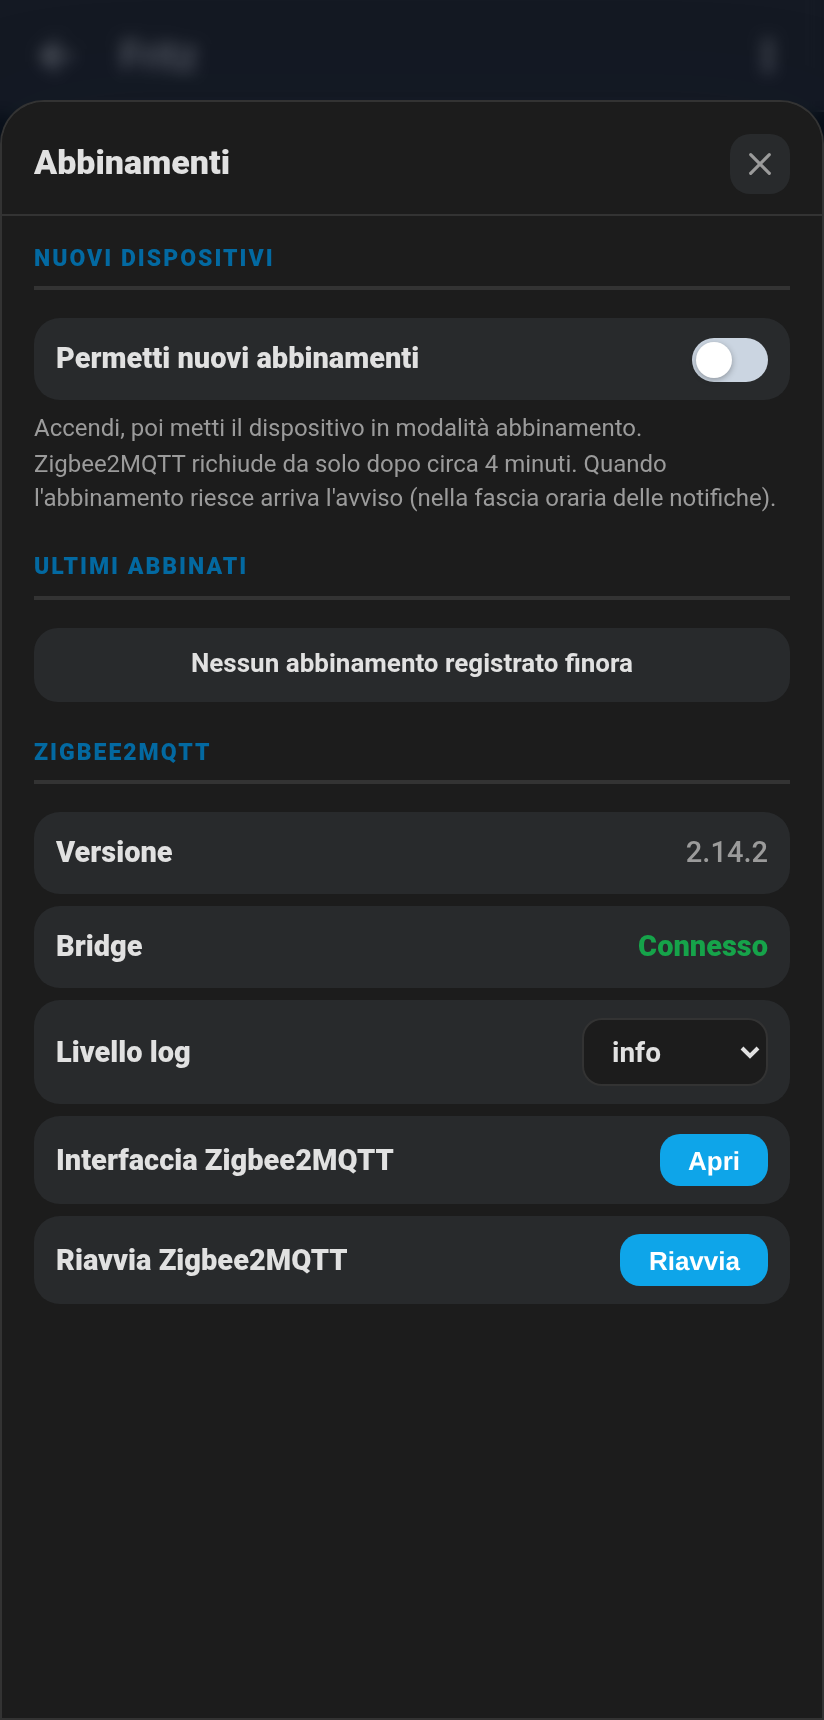
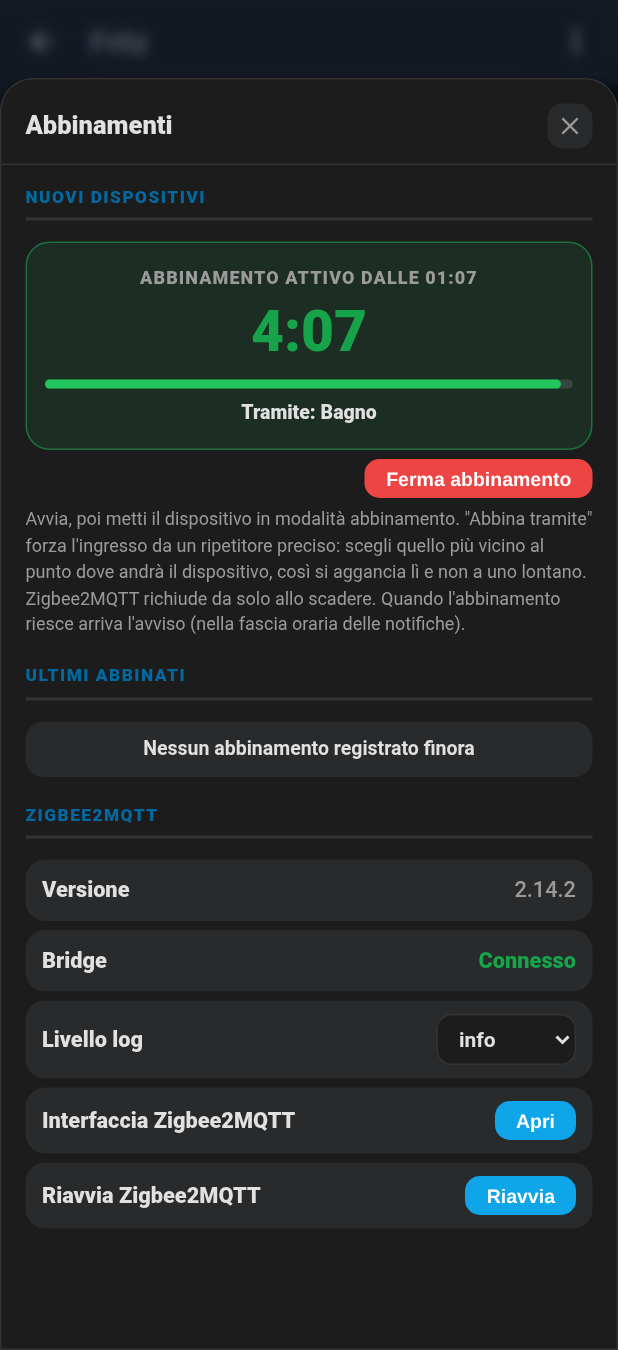
1.8.2: abbinamento con conto alla rovescia e ripetitore scelto, elenco alfabetico

diff --git a/smart-home-cards.js b/smart-home-cards.js
@@ -7705,6 +7705,14 @@ const ZB_STYLE = `
 .shc-zb-stepper{display:flex;align-items:center;gap:8px}
 .shc-zb-stepper span{min-width:58px;text-align:center;font-size:14px;font-weight:850;color:var(--shc-text)}
 .shc-zb-note{font-size:12px;line-height:1.45;color:var(--shc-dim);margin:0}
+.shc-zb-pair{display:flex;flex-direction:column;align-items:center;gap:6px;padding:14px 12px;border-radius:16px;background:rgba(34,197,94,.1);border:1px solid rgba(34,197,94,.45)}
+.shc-zb-pair small{font-size:12px;font-weight:800;color:var(--shc-dim);text-transform:uppercase;letter-spacing:.06em}
+.shc-zb-cd{font-size:38px;font-weight:900;color:#16a34a;font-variant-numeric:tabular-nums;line-height:1}
+.shc-zb-pair .shc-ap-bar{width:100%;height:6px}
+.shc-zb-pair .shc-ap-bar i{background:#22c55e;transition:width 1s linear}
+.shc-zb-pair-via{font-size:13px;font-weight:750;color:var(--shc-text);text-align:center}
+.shc-zb-pair-btns{display:flex;gap:8px;justify-content:flex-end;flex-wrap:wrap}
+.shc-zb-stop{background:#ef4444 !important}
 .shc-zb-history{display:flex;flex-direction:column;gap:5px}
 .shc-zb-history div{padding:8px 11px;border-radius:12px;background:var(--shc-soft);font-size:13px;font-weight:650;color:var(--shc-text)}
 .shc-zb-history small{display:block;font-size:11px;font-weight:800;color:var(--shc-dim)}
@@ -7767,6 +7775,8 @@ class ShcZigbeeCard extends HTMLElement {
       version_entity: "sensor.zigbee2mqtt_bridge_version",
       log_level_entity: "select.zigbee2mqtt_bridge_log_level",
       history_entity: "input_text.zigbee_ultimi_abbinati",
+      pairing_end_entity: "sensor.zigbee_abbinamento_fine",
+      base_topic: "zigbee2mqtt",
       excluded_entity: "input_text.zigbee_esclusi",
       image_path: "/local/zigbee_img/",
       ...config,
@@ -7851,8 +7861,7 @@ class ShcZigbeeCard extends HTMLElement {
     const excluded = Array.isArray(a.esclusi) ? a.esclusi : [];
     const soglia = Number(a.soglia_batteria) || 15;
     const stato = (d) => (excluded.includes(d.n) ? "escl" : d.on ? "on" : "off");
-    const ordine = { off: 0, on: 1, escl: 2 };
-    const devices = [...list].sort((x, y) => ordine[stato(x)] - ordine[stato(y)] || String(x.n).localeCompare(String(y.n)));
+    const devices = [...list].sort((x, y) => String(x.n).localeCompare(String(y.n), "it", { sensitivity: "base", numeric: true }));
     const withLqi = devices.filter((d) => d.on && d.q >= 0);
     const minDev = withLqi.length ? withLqi.reduce((m, d) => (d.q < m.q ? d : m), withLqi[0]) : null;
     return {
@@ -7870,6 +7879,23 @@ class ShcZigbeeCard extends HTMLElement {
       battery: devices.filter((d) => d.b !== -2),
       low: devices.filter((d) => d.b >= 0 && d.b < soglia && stato(d) !== "escl"),
     };
+  }
+
+  // Fine dell'abbinamento in corso (ms), 0 se chiuso. Dal sensore del package,
+  // altrimenti accensione dell'interruttore + 254 s (durata standard di Zigbee2MQTT).
+  _pairEnd() {
+    const cfg = this._config;
+    const pj = this._hass?.states[cfg.permit_join_entity];
+    if (pj && pj.state !== "on") return 0;
+    const t = Date.parse(this._hass?.states[cfg.pairing_end_entity]?.state || "");
+    if (t) return t;
+    if (pj?.state === "on") return Date.parse(pj.last_changed) + 254000;
+    return 0;
+  }
+
+  _cdText(ms) {
+    const s = Math.max(0, Math.round(ms / 1000));
+    return `${Math.floor(s / 60)}:${String(s % 60).padStart(2, "0")}`;
   }
 
   _img(model) {
@@ -7906,7 +7932,24 @@ class ShcZigbeeCard extends HTMLElement {
     const badge = this._root.querySelector(".shc-ap-badge");
     badge.classList.remove("run", "standby", "off", "unavailable");
     badge.classList.add(mode === "running" && !d.offline.length ? "run" : "unavailable");
-    this._root.querySelector(".shc-ap-badge-label").textContent = !d.st
+    const pairEnd = this._pairEnd();
+    if (pairEnd > Date.now()) {
+      if (!this._badgeTimer) {
+        this._badgeTimer = setInterval(() => {
+          const left = this._pairEnd() - Date.now();
+          if (left <= 0 || !this.isConnected) {
+            clearInterval(this._badgeTimer);
+            this._badgeTimer = null;
+            if (this._hass) this.hass = this._hass;
+            return;
+          }
+          this._root.querySelector(".shc-ap-badge-label").textContent = `ABBINAMENTO ${this._cdText(left)}`;
+        }, 1000);
+      }
+      badge.classList.remove("unavailable");
+      badge.classList.add("run");
+      this._root.querySelector(".shc-ap-badge-label").textContent = `ABBINAMENTO ${this._cdText(pairEnd - Date.now())}`;
+    } else this._root.querySelector(".shc-ap-badge-label").textContent = !d.st
       ? "N/D"
       : bridgeDown
         ? "BRIDGE OFFLINE"
@@ -7949,7 +7992,7 @@ class ShcZigbeeCard extends HTMLElement {
 
     // popup aperto: si ridisegna solo quando cambia una delle entita' della card
     const n = cfg.notify || {};
-    const key = [cfg.entity, cfg.permit_join_entity, cfg.history_entity, cfg.bridge_entity, cfg.log_level_entity, ...Object.values(n)]
+    const key = [cfg.entity, cfg.permit_join_entity, cfg.pairing_end_entity, cfg.history_entity, cfg.bridge_entity, cfg.log_level_entity, ...Object.values(n)]
       .map((e) => (e && hass.states[e] ? hass.states[e].last_updated : ""))
       .join("|");
     if (key !== this._liveKey) {
@@ -8081,7 +8124,29 @@ class ShcZigbeeCard extends HTMLElement {
     const cfg = this._config;
     const pj = hass.states[cfg.permit_join_entity];
     const pjOn = pj?.state === "on";
+    const end = this._pairEnd();
     const sinceTxt = pjOn && pj.last_changed ? new Date(pj.last_changed).toLocaleTimeString("it-IT", { hour: "2-digit", minute: "2-digit" }) : "";
+    const total = Math.max(1, end - Date.parse(pj?.last_changed || "") || 254000);
+    // ripetitori (dispositivi a rete online) attraverso cui forzare l'abbinamento
+    const routers = this._data().devices.filter((x) => x.b === -2 && x.on);
+    if (this._pairVia && !routers.some((x) => x.n === this._pairVia) && this._pairVia !== "Coordinator") this._pairVia = "";
+    const viaOpts = [
+      ["", "Tutta la rete"],
+      ["Coordinator", "Solo coordinatore"],
+      ...routers.map((x) => [x.n, x.n]),
+    ]
+      .map(([v, l]) => `<option value="${esc(v)}"${v === (this._pairVia || "") ? " selected" : ""}>${esc(l)}</option>`)
+      .join("");
+    const pairBox = pjOn
+      ? `<div class="shc-zb-pair">
+          <small>Abbinamento attivo dalle ${esc(sinceTxt)}</small>
+          <span class="shc-zb-cd">${end ? this._cdText(end - Date.now()) : "--:--"}</span>
+          <div class="shc-ap-bar"><i class="shc-zb-cd-bar" style="width:${end ? Math.max(0, Math.min(100, ((end - Date.now()) / total) * 100)) : 0}%"></i></div>
+          ${this._pairStartedVia === undefined ? "" : `<span class="shc-zb-pair-via">Tramite: <b>${esc(this._pairStartedVia === "Coordinator" ? "solo coordinatore" : this._pairStartedVia || "tutta la rete")}</b></span>`}
+        </div>
+        <div class="shc-zb-pair-btns"><button type="button" class="shc-ap-action-btn shc-zb-stop" data-pair="stop">Ferma abbinamento</button></div>`
+      : `${this._row("Abbina tramite", `<select class="shc-ap-select" data-via="1">${viaOpts}</select>`)}
+        <div class="shc-zb-pair-btns"><button type="button" class="shc-ap-action-btn" data-pair="start">Avvia abbinamento (4 min)</button></div>`;
     const hist = String(hass.states[cfg.history_entity]?.state || "");
     const histItems = ["", "unknown", "unavailable"].includes(hist) ? [] : hist.split(" | ");
     const ver = hass.states[cfg.version_entity]?.state;
@@ -8092,8 +8157,8 @@ class ShcZigbeeCard extends HTMLElement {
       .join("");
     const html = `
       <div class="shc-ap-sec"><div class="shc-ap-sec-cap">Nuovi dispositivi</div>
-        ${this._row(pjOn ? `Abbinamento attivo dalle ${sinceTxt}` : "Permetti nuovi abbinamenti", this._switchHtml(cfg.permit_join_entity))}
-        <p class="shc-zb-note">Accendi, poi metti il dispositivo in modalità abbinamento. Zigbee2MQTT richiude da solo dopo circa 4 minuti. Quando l'abbinamento riesce arriva l'avviso (nella fascia oraria delle notifiche).</p>
+        ${pairBox}
+        <p class="shc-zb-note">Avvia, poi metti il dispositivo in modalità abbinamento. "Abbina tramite" forza l'ingresso da un ripetitore preciso: scegli quello più vicino al punto dove andrà il dispositivo, così si aggancia lì e non a uno lontano. Zigbee2MQTT richiude da solo allo scadere. Quando l'abbinamento riesce arriva l'avviso (nella fascia oraria delle notifiche).</p>
       </div>
       <div class="shc-ap-sec"><div class="shc-ap-sec-cap">Ultimi abbinati</div>
         <div class="shc-zb-history">${
@@ -8111,6 +8176,33 @@ class ShcZigbeeCard extends HTMLElement {
       </div>`;
     const overlay = this._openDialog("Abbinamenti", html, () => this._openPairing());
     this._bindControls(overlay, () => this._openPairing());
+    clearInterval(this._cdTimer);
+    if (pjOn && end) {
+      this._cdTimer = setInterval(() => {
+        const left = end - Date.now();
+        const cd = overlay.querySelector(".shc-zb-cd");
+        if (overlay.hidden || !cd) {
+          clearInterval(this._cdTimer);
+          return;
+        }
+        cd.textContent = this._cdText(left);
+        const bar = overlay.querySelector(".shc-zb-cd-bar");
+        if (bar) bar.style.width = `${Math.max(0, Math.min(100, (left / total) * 100))}%`;
+        if (left <= 0) clearInterval(this._cdTimer);
+      }, 1000);
+    }
+    overlay.querySelector("[data-via]")?.addEventListener("change", (e) => {
+      this._pairVia = e.target.value;
+    });
+    overlay.querySelector("[data-pair]")?.addEventListener("click", (e) => {
+      const start = e.target.dataset.pair === "start";
+      const payload = start ? { time: 254 } : { time: 0 };
+      if (start && this._pairVia) payload.device = this._pairVia;
+      this._pairStartedVia = start ? this._pairVia || "" : undefined;
+      this._call("mqtt", "publish", { topic: `${cfg.base_topic}/bridge/request/permit_join`, payload: JSON.stringify(payload) });
+      e.target.disabled = true;
+      e.target.textContent = start ? "Avvio..." : "Chiusura...";
+    });
     overlay.querySelector("[data-log]")?.addEventListener("change", (e) => {
       this._call("select", "select_option", { entity_id: cfg.log_level_entity, option: e.target.value });
     });
@@ -8335,6 +8427,8 @@ class ShcZigbeeCardEditor extends ShcSimpleCardEditorBase {
       ]},
       { title: "Zigbee2MQTT", fields: [
         { key: "permit_join_entity", label: "Permetti abbinamento (permit join)", domain: ["switch"] },
+        { key: "pairing_end_entity", label: "Fine abbinamento (conto alla rovescia)", domain: ["sensor"] },
+        { key: "base_topic", label: "Topic base MQTT di Zigbee2MQTT", kind: "text", placeholder: "zigbee2mqtt" },
         { key: "restart_entity", label: "Pulsante riavvio", domain: ["button"] },
         { key: "version_entity", label: "Versione", domain: ["sensor"] },
         { key: "log_level_entity", label: "Livello log", domain: ["select"] },

diff --git a/docs/zigbee.md b/docs/zigbee.md
@@ -24,7 +24,7 @@ Il package [`packages/centro_controllo_zigbee.yaml`](../packages/centro_controll
 
 1. Copialo in `/config/packages/` (servono i [Packages](https://www.home-assistant.io/docs/configuration/packages/) attivi).
 2. Cerca `mobile_app_il_tuo_telefono` (3 punti) e mettici il tuo `notify.mobile_app_xxx`.
-3. Se il tuo Zigbee2MQTT usa un `base_topic` diverso da `zigbee2mqtt`, cambia i due topic `zigbee2mqtt/...` nel file.
+3. Se il tuo Zigbee2MQTT usa un `base_topic` diverso da `zigbee2mqtt`, cambia i topic `zigbee2mqtt/...` nel file e metti `base_topic` nella card.
 4. Riavvia Home Assistant.
 5. Imposta una volta gli helper, dalla card stessa (🔔 Notifiche): soglia offline (es. 30 min), soglia batteria (es. 15%), fascia oraria (es. 9:00 – 23:00), avvisi accesi. Gli helper non hanno `initial:` apposta, così i valori scelti restano dopo ogni riavvio.
 6. (Facoltativo) Foto dei dispositivi: la card cerca prima `/local/zigbee_img/<modello>.png`, poi la scarica da sola dal sito di Zigbee2MQTT. Metti in `/config/www/zigbee_img/` solo le foto che vuoi diverse da quelle ufficiali.
@@ -56,11 +56,17 @@ frontend_url: /45df7312_zigbee2mqtt
 
 ### ⚙ Abbinamenti
 
-Interruttore **Permetti nuovi abbinamenti** (`permit join`: Zigbee2MQTT lo richiude da solo dopo circa 4 minuti), elenco degli **ultimi abbinati** con data e ora, versione di Zigbee2MQTT, stato del bridge, livello di log, pulsanti **Apri** (interfaccia di Zigbee2MQTT) e **Riavvia** (con conferma).
+**Avvia abbinamento (4 min)** apre la rete ai nuovi dispositivi. Durante l'abbinamento compare un **conto alla rovescia** grande con la barra del tempo che resta, e anche il badge della card mostra "ABBINAMENTO 3:42". **Ferma abbinamento** chiude subito.
+
+**Abbina tramite** forza l'ingresso da un punto preciso della rete: tutta la rete, solo il coordinatore (la chiavetta) oppure un ripetitore scelto dall'elenco (i dispositivi alimentati a rete e online). Scegli il ripetitore più vicino al punto dove andrà il dispositivo: si aggancia lì e non a uno lontano.
+
+Sotto: elenco degli **ultimi abbinati** con data e ora, versione di Zigbee2MQTT, stato del bridge, livello di log, pulsanti **Apri** (interfaccia di Zigbee2MQTT) e **Riavvia** (con conferma).
+
+Il conto alla rovescia legge `sensor.zigbee_abbinamento_fine` del package (Zigbee2MQTT pubblica l'ora di chiusura in `bridge/info`). Senza il package la card stima 4 minuti dall'accensione dell'interruttore `permit join`.
 
 ### 📊 Dispositivi
 
-Tutti i dispositivi con foto, stato, tacche e valore del segnale, modello e batteria (o "a rete"). Gli offline stanno in cima, con bordo rosso e da quanto tempo sono offline. Filtri **Tutti / Online / Offline / A rete / A batteria** e ricerca per nome o modello. Si apre anche toccando il simbolo Zigbee.
+Tutti i dispositivi con foto, stato, tacche e valore del segnale, modello e batteria (o "a rete"). In ordine alfabetico; gli offline hanno il bordo rosso e da quanto tempo sono offline (filtro **Offline** per vederli da soli). Filtri **Tutti / Online / Offline / A rete / A batteria** e ricerca per nome o modello. Si apre anche toccando il simbolo Zigbee.
 
 Toccando un dispositivo si apre la sua **scheda**: produttore e modello, stato, segnale, batteria, il pulsante per aprire la pagina del dispositivo in Home Assistant e l'interruttore **Escludi da conteggio e avvisi**. Serve per un dispositivo che spegni di proposito (es. una presa usata solo d'inverno): resta in elenco, ma non fa diventare rossa la card e non manda avvisi.
 
@@ -96,6 +102,8 @@ Se più di metà della rete va offline insieme arriva un solo avviso, "Rete Zigb
 | `restart_entity` | No | `button.zigbee2mqtt_bridge_restart` | Pulsante di riavvio |
 | `version_entity` | No | `sensor.zigbee2mqtt_bridge_version` | Versione di Zigbee2MQTT |
 | `log_level_entity` | No | `select.zigbee2mqtt_bridge_log_level` | Livello di log |
+| `pairing_end_entity` | No | `sensor.zigbee_abbinamento_fine` | Fine dell'abbinamento in corso, per il conto alla rovescia |
+| `base_topic` | No | `zigbee2mqtt` | Topic base MQTT di Zigbee2MQTT (avvio/stop abbinamento) |
 | `frontend_url` | No | — | Percorso o indirizzo dell'interfaccia Zigbee2MQTT (senza, il pulsante Apri non compare) |
 | `image_path` | No | `/local/zigbee_img/` | Cartella delle foto dei dispositivi |
 | `history_entity` | No | `input_text.zigbee_ultimi_abbinati` | Ultimi abbinamenti |

diff --git a/CHANGELOG.md b/CHANGELOG.md
@@ -1,5 +1,12 @@
 # Changelog
 
+## 2026-10-25 (3) — 1.8.2: abbinamento con conto alla rovescia e ripetitore scelto
+
+- **Card Rete Zigbee, ⚙ Abbinamenti**: conto alla rovescia grande con barra del tempo che resta (anche nel badge della card), pulsante Ferma abbinamento.
+- **Abbina tramite**: si può forzare l'abbinamento da un ripetitore preciso o dal solo coordinatore, come nell'interfaccia di Zigbee2MQTT.
+- Elenco Dispositivi in **ordine alfabetico** (gli offline restano evidenziati in rosso e filtrabili).
+- Package: nuovo `sensor.zigbee_abbinamento_fine` (MQTT, da `bridge/info`). Nuove opzioni card `pairing_end_entity` e `base_topic`.
+
 ## 2026-10-25 (2) — 1.8.1: fix card Rete Zigbee
 
 - **Fix**: il pulsante "Apri" dell'interfaccia Zigbee2MQTT portava alla dashboard principale. Il percorso giusto è quello del pannello nel menu laterale (es. `/45df7312_zigbee2mqtt`): le versioni recenti di Home Assistant non hanno più `/hassio/ingress/...`. Esempio e guida corretti.
